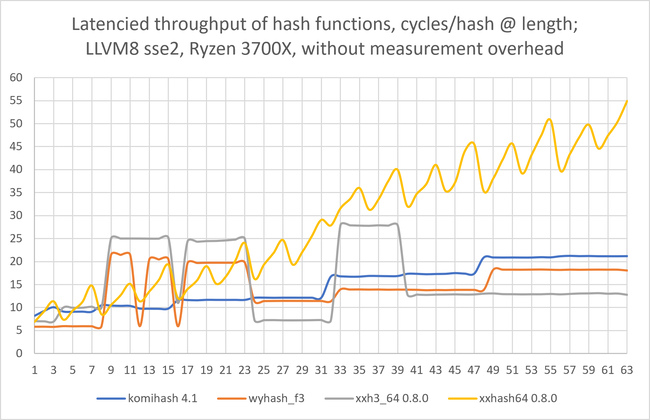
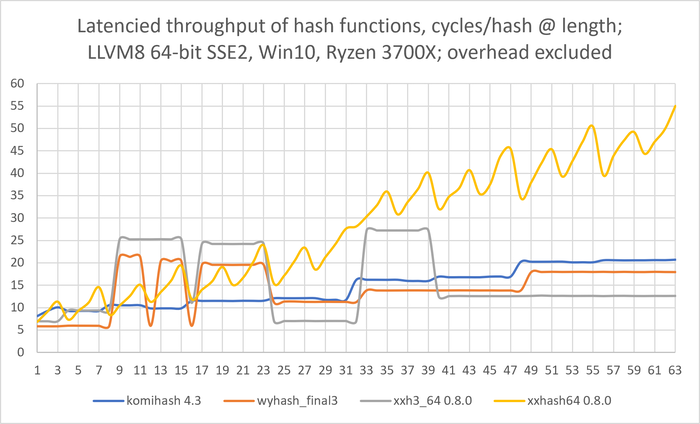
Version 4.3. Reduced "large block" finalization code, with varying results with different compilers. Additional micro-optimization, for more even results between platforms and compilers. Likely a final optimization.

diff --git a/komihash.h b/komihash.h
@@ -1,5 +1,5 @@
 /**
- * komihash.h version 4.2
+ * komihash.h version 4.3
  *
  * The inclusion file for the "komihash" hash function.
  *
@@ -105,10 +105,9 @@
 
 #endif // KOMIHASH_LITTLE_ENDIAN
 
-// Likelihood macros that are used for manually-guided micro-optimization
-// (not enabled in LLVM clang due to inefficiency).
+// Likelihood macros that are used for manually-guided micro-optimization.
 
-#if defined( __GNUC__ ) || \
+#if defined( __GNUC__ ) || defined( __clang__ ) || \
 	( defined( __GNUC__ ) && defined( __INTEL_COMPILER ))
 
 	#define KOMIHASH_LIKELY( x )  __builtin_expect( x, 1 )
@@ -137,10 +136,11 @@
 
 /**
  * An auxiliary function that returns an unsigned 32-bit value created out of
- * individual bytes in a buffer. This function is used to convert endianness
- * of supplied 32-bit unsigned values, and to avoid unaligned memory accesses.
+ * a sequence of bytes in memory. This function is used to convert endianness
+ * of in-memory 32-bit unsigned values, and to avoid unaligned memory
+ * accesses.
  *
- * @param p 4-byte buffer. Alignment is unimportant.
+ * @param p Pointer to 4 bytes in memory. Alignment is unimportant.
  */
 
 static inline uint32_t kh_lu32ec( const uint8_t* const p )
@@ -153,10 +153,11 @@ static inline uint32_t kh_lu32ec( const uint8_t* const p )
 
 /**
  * An auxiliary function that returns an unsigned 64-bit value created out of
- * individual bytes in a buffer. This function is used to convert endianness
- * of supplied 64-bit unsigned values, and to avoid unaligned memory accesses.
+ * a sequence of bytes in memory. This function is used to convert endianness
+ * of in-memory 64-bit unsigned values, and to avoid unaligned memory
+ * accesses.
  *
- * @param p 8-byte buffer. Alignment is unimportant.
+ * @param p Pointer to 8 bytes in memory. Alignment is unimportant.
  */
 
 static inline uint64_t kh_lu64ec( const uint8_t* const p )
@@ -168,9 +169,10 @@ static inline uint64_t kh_lu64ec( const uint8_t* const p )
 }
 
 /**
- * Function loads 64-bit message word and pads it with the "final byte". This
- * function should only be called if there is less than 8 bytes left to read.
- * The message should be "long", permitting Msg[ -3 ] reads.
+ * Function builds an unsigned 64-bit value out of remaining bytes in a
+ * message, and pads it with the "final byte". This function can only be
+ * called if less than 8 bytes are left to read. The message should be "long",
+ * permitting Msg[ -3 ] reads.
  *
  * @param Msg Message pointer, alignment is unimportant.
  * @param MsgLen Message's remaining length, in bytes; can be 0.
@@ -198,9 +200,10 @@ static inline uint64_t kh_lpu64ec_l3( const uint8_t* const Msg,
 }
 
 /**
- * Function loads 64-bit message word and pads it with the "final byte". This
- * function should only be called if there is less than 8 bytes left to read.
- * Can be used on "short" messages, but MsgLen should be greater than 0.
+ * Function builds an unsigned 64-bit value out of remaining bytes in a
+ * message, and pads it with the "final byte". This function can only be
+ * called if less than 8 bytes are left to read. Can be used on "short"
+ * messages, but MsgLen should be greater than 0.
  *
  * @param Msg Message pointer, alignment is unimportant.
  * @param MsgLen Message's remaining length, in bytes; cannot be 0.
@@ -236,9 +239,10 @@ static inline uint64_t kh_lpu64ec_nz( const uint8_t* const Msg,
 }
 
 /**
- * Function loads 64-bit message word and pads it with the "final byte". This
- * function should only be called if there is less than 8 bytes left to read.
- * The message should be "long", permitting Msg[ -4 ] reads.
+ * Function builds an unsigned 64-bit value out of remaining bytes in a
+ * message, and pads it with the "final byte". This function can only be
+ * called if less than 8 bytes are left to read. The message should be "long",
+ * permitting Msg[ -4 ] reads.
  *
  * @param Msg Message pointer, alignment is unimportant.
  * @param MsgLen Message's remaining length, in bytes; can be 0.
@@ -324,8 +328,8 @@ static inline uint64_t kh_lpu64ec_l4( const uint8_t* const Msg,
 
 #endif // defined( _MSC_VER )
 
-// Common 16-byte hashing block, using the "r1l" and "r1h" temporary
-// variables.
+// Common hashing round with 16-byte input, using the "r1l" and "r1h"
+// temporary variables.
 
 #define KOMIHASH_HASH16( m ) \
 	kh_m128( Seed1 ^ kh_lu64ec( m ), \
@@ -341,8 +345,8 @@ static inline uint64_t kh_lpu64ec_l4( const uint8_t* const Msg,
 	Seed5 += r2h; \
 	Seed1 = Seed5 ^ r2l;
 
-// Common hashing finalization block, with the final hashing input in the
-// "r2l" and "r2h" temporary variables.
+// Common hashing finalization round, with the final hashing input expected in
+// the "r2l" and "r2h" temporary variables.
 
 #define KOMIHASH_HASHFIN() \
 	kh_m128( r2l, r2h, &r1l, &r1h ); \
@@ -351,10 +355,10 @@ static inline uint64_t kh_lpu64ec_l4( const uint8_t* const Msg,
 	KOMIHASH_HASHROUND();
 
 /**
- * KOMIHASH hash function. Produces and returns a 64-bit hash of the specified
- * message, string, or binary data block. Designed for 64-bit hash-table and
- * hash-map uses. Produces identical hashes on both big- and little-endian
- * systems.
+ * KOMIHASH hash function. Produces and returns a 64-bit hash value of the
+ * specified message, string, or binary data block. Designed for 64-bit
+ * hash-table and hash-map uses. Produces identical hashes on both big- and
+ * little-endian systems.
  *
  * @param Msg0 The message to produce a hash from. The alignment of this
  * pointer is unimportant.
@@ -377,13 +381,14 @@ static inline uint64_t komihash( const void* const Msg0, size_t MsgLen,
 	uint64_t Seed5 = 0x452821E638D01377 ^ ( UseSeed & 0xAAAAAAAAAAAAAAAA );
 	uint64_t r1l, r1h, r2l, r2h;
 
-	// The following three instructions represent the simplest constant-less
-	// PRNG, scalable to any even-sized state variables, with the `Seed1`
-	// being the PRNG output (2^64 period). It passes `PractRand` tests with
-	// rare non-systematic "unusual" evaluations.
+	// The three instructions in the "KOMIHASH_HASHROUND" macro represent the
+	// simplest constant-less PRNG, scalable to any even-sized state
+	// variables, with the `Seed1` being the PRNG output (2^64 PRNG period).
+	// It passes `PractRand` tests with rare non-systematic "unusual"
+	// evaluations.
 	//
-	// To make it reliable, self-starting, and eliminate a risk of stopping,
-	// the following variant can be used, which is a "register
+	// To make this PRNG reliable, self-starting, and eliminate a risk of
+	// stopping, the following variant can be used, which is a "register
 	// checker-board", a source of raw entropy. The PRNG is available as the
 	// komirand() function. Not required for hashing (but works for it) since
 	// the input entropy is usually available in abundance during hashing.
@@ -396,18 +401,19 @@ static inline uint64_t komihash( const void* const Msg0, size_t MsgLen,
 
 	KOMIHASH_HASHROUND(); // Required for PerlinNoise.
 
-	KOMIHASH_PREFETCH( Msg );
-
 	if( KOMIHASH_LIKELY( MsgLen < 16 ))
 	{
+		KOMIHASH_PREFETCH( Msg );
+
 		r2l = Seed1;
 		r2h = Seed5;
 
-		if( KOMIHASH_LIKELY( MsgLen > 7 ))
+		if( MsgLen > 7 )
 		{
 			// The following two XOR instructions are equivalent to mixing a
-			// message with a cryptographical one-time-pad. Message's
-			// statistics and distribution are thus unimportant.
+			// message with a cryptographic one-time-pad (bitwise modulo 2
+			// addition). Message's statistics and distribution are thus
+			// unimportant.
 
 			r2h ^= kh_lpu64ec_l3( Msg + 8, MsgLen - 8,
 				1 << ( Msg[ MsgLen - 1 ] >> 7 ));
@@ -428,6 +434,8 @@ static inline uint64_t komihash( const void* const Msg0, size_t MsgLen,
 
 	if( KOMIHASH_LIKELY( MsgLen < 32 ))
 	{
+		KOMIHASH_PREFETCH( Msg );
+
 		KOMIHASH_HASH16( Msg );
 
 		const uint64_t fb = 1 << ( Msg[ MsgLen - 1 ] >> 7 );
@@ -448,10 +456,9 @@ static inline uint64_t komihash( const void* const Msg0, size_t MsgLen,
 		return( Seed1 );
 	}
 
-	uint64_t Seed2 = 0x13198A2E03707344 ^ Seed1;
-
-	if( KOMIHASH_UNLIKELY( MsgLen > 63 ))
+	if( MsgLen > 63 )
 	{
+		uint64_t Seed2 = 0x13198A2E03707344 ^ Seed1;
 		uint64_t Seed3 = 0xA4093822299F31D0 ^ Seed1;
 		uint64_t Seed4 = 0x082EFA98EC4E6C89 ^ Seed1;
 		uint64_t Seed6 = 0xBE5466CF34E90C6C ^ Seed5;
@@ -496,27 +503,11 @@ static inline uint64_t komihash( const void* const Msg0, size_t MsgLen,
 
 		} while( KOMIHASH_LIKELY( MsgLen > 63 ));
 
-		// Such "cropped" large-block hashing finalization (below) may look
-		// counter-intuitive (it does not look similar to the set of
-		// instructions above), but it was tested in PractRand, and it does
-		// produce a correct continuation of PRNG in Seed1/Seed5. Such
-		// finalization is even preferrable since it yields a considerably
-		// lower biases in the "Zeroes" and "Avalanche" tests of SMHasher.
-
-		kh_m128( Seed2, Seed6, &r2l, &r2h );
-		kh_m128( Seed3, Seed7, &r3l, &r3h );
-		kh_m128( Seed4, Seed8, &r4l, &r4h );
-
-		Seed6 += r2h;
-		Seed7 += r3h;
-		Seed8 += r4h;
-		Seed2 = Seed5 ^ r2l;
-		Seed3 = Seed6 ^ r3l;
-		Seed4 = Seed7 ^ r4l;
-		Seed5 = Seed8;
-
-		Seed2 ^= Seed3 ^ Seed4;
+		Seed5 ^= Seed6 ^ Seed7 ^ Seed8;
+		Seed1 ^= Seed2 ^ Seed3 ^ Seed4;
 	}
+
+	KOMIHASH_PREFETCH( Msg );
 
 	if( KOMIHASH_LIKELY( MsgLen > 31 ))
 	{
@@ -550,7 +541,7 @@ static inline uint64_t komihash( const void* const Msg0, size_t MsgLen,
 
 	KOMIHASH_HASHFIN();
 
-	return( Seed1 ^ Seed2 );
+	return( Seed1 );
 }
 
 /**

diff --git a/README.md b/README.md
@@ -7,7 +7,7 @@ fast 64-bit hash function, mainly designed for hash-table and hash-map uses;
 produces identical hashes on both big- and little-endian systems. Function's
 code is portable, scalar.
 
-This function features both a high large-block hashing performance (27 GB/s
+This function features both a high large-block hashing performance (26 GB/s
 on Ryzen 3700X) and a high hashing throughput for small messages (about 11
 cycles/hash for 0-15-byte messages). Performance on 32-bit systems is,
 however, quite low. Also, large-block hashing performance on big-endian
@@ -45,7 +45,7 @@ Compiler options: `/Ox /arch:sse2`; overhead: `1.8` cycles/h.
 
 |Hash function   |0-15b, cycles/h|8-28b, cycles/h|bulk, GB/s     |
 |----            |----           |----           |----           |
-|**komihash 4.1**|11.4           |12.9           |26.8           |
+|**komihash 4.3**|11.2           |13.0           |26.0           |
 |komihash 3.6    |11.1           |16.9           |27.5           |
 |komihash 2.8    |11.3           |17.4           |27.7           |
 |wyhash_final3   |13.4           |17.8           |29.7           |
@@ -57,7 +57,7 @@ Compiler options: `/Ox -mavx2`; overhead: `1.8` cycles/h.
 
 |Hash function   |0-15b, cycles/h|8-28b, cycles/h|bulk, GB/s     |
 |----            |----           |----           |----           |
-|**komihash 4.1**|11.3           |13.1           |26.7           |
+|**komihash 4.3**|11.2           |13.0           |25.9           |
 |komihash 3.6    |11.0           |16.3           |27.5           |
 |komihash 2.8    |11.1           |17.7           |27.8           |
 |wyhash_final3   |13.4           |17.7           |29.8           |
@@ -71,7 +71,7 @@ Compiler options: `-O3 -mavx2`; overhead: `5.3` cycles/h.
 
 |Hash function   |0-15b, cycles/h|8-28b, cycles/h|bulk, GB/s     |
 |----            |----           |----           |----           |
-|**komihash 4.1**|15.4           |16.4           |22.7           |
+|**komihash 4.3**|15.3           |16.3           |22.8           |
 |komihash 3.6    |16.0           |19.0           |22.3           |
 |komihash 2.8    |18.1           |22.3           |23.5           |
 |wyhash_final3   |14.0           |18.7           |28.4           |
@@ -85,7 +85,7 @@ Compiler options: `/O3 /QxSSE2`; overhead: `2.0` cycles/h.
 
 |Hash function   |0-15b, cycles/h|8-28b, cycles/h|bulk, GB/s     |
 |----            |----           |----           |----           |
-|**komihash 4.1**|20.2           |23.4           |16.3           |
+|**komihash 4.3**|17.9           |21.6           |16.3           |
 |komihash 3.6    |20.1           |24.0           |16.3           |
 |komihash 2.8    |21.3           |25.6           |16.2           |
 |wyhash_final3   |24.1           |32.0           |12.6           |
@@ -95,7 +95,7 @@ Compiler options: `/O3 /QxSSE2`; overhead: `2.0` cycles/h.
 
 (this is likely a worst-case scenario, when a compiler was not cross-tuned
 to a competing processor architecture; also, ICC for Windows does not support
-the `__builtin_expect()` intrinsic)
+the `__builtin_expect` and `__builtin_prefetch` intrinsics)
 
 ### GCC 8.5.0 64-bit, CentOS 8, Xeon E-2176G (CoffeeLake), 4.5 GHz ###
 
@@ -103,7 +103,7 @@ Compiler options: `-O3 -msse2`; overhead: `5.8` cycles/h.
 
 |Hash function   |0-15b, cycles/h|8-28b, cycles/h|bulk, GB/s     |
 |----            |----           |----           |----           |
-|**komihash 4.1**|18.0           |17.1           |24.3           |
+|**komihash 4.3**|15.4           |16.2           |24.4           |
 |komihash 3.6    |16.4           |20.3           |24.7           |
 |komihash 2.8    |18.5           |22.4           |24.7           |
 |wyhash_final3   |14.9           |19.5           |29.8           |
@@ -115,7 +115,7 @@ Compiler options: `-O3 -mavx2`; overhead: `5.8` cycles/h.
 
 |Hash function   |0-15b, cycles/h|8-28b, cycles/h|bulk, GB/s     |
 |----            |----           |----           |----           |
-|**komihash 4.1**|15.3           |16.1           |24.8           |
+|**komihash 4.3**|15.3           |16.4           |24.4           |
 |komihash 3.6    |15.8           |20.1           |24.7           |
 |komihash 2.8    |16.6           |21.2           |24.7           |
 |wyhash_final3   |15.4           |19.0           |30.1           |
@@ -129,7 +129,7 @@ Compiler options: `/O3 /QxSSE2`; overhead: `5.9` cycles/h.
 
 |Hash function   |0-15b, cycles/h|8-28b, cycles/h|bulk, GB/s     |
 |----            |----           |----           |----           |
-|**komihash 4.1**|19.9           |22.0           |18.2           |
+|**komihash 4.3**|18.7           |21.5           |18.5           |
 |komihash 3.6    |19.5           |23.1           |18.1           |
 |komihash 2.8    |20.1           |23.6           |18.4           |
 |wyhash_final3   |19.2           |24.5           |20.0           |
@@ -143,7 +143,7 @@ Compiler options: `/Ox -mavx2`; overhead: `5.5` cycles/h.
 
 |Hash function   |0-15b, cycles/h|8-28b, cycles/h|bulk, GB/s     |
 |----            |----           |----           |----           |
-|**komihash 4.1**|14.5           |16.6           |22.4           |
+|**komihash 4.3**|14.1           |16.0           |22.0           |
 |komihash 3.6    |14.0           |22.0           |22.9           |
 |komihash 2.8    |13.4           |22.7           |23.7           |
 |wyhash_final3   |14.5           |20.1           |30.0           |
@@ -157,7 +157,7 @@ Compiler options: `-O3`; overhead: `unestimatable`.
 
 |Hash function   |0-15b, cycles/h|8-28b, cycles/h|bulk, GB/s     |
 |----            |----           |----           |----           |
-|**komihash 4.1**|8.6            |9.0            |23.6           |
+|**komihash 4.3**|8.6            |9.0            |23.6           |
 |komihash 3.6    |8.5            |10.7           |23.6           |
 |komihash 2.8    |10.1           |11.4           |23.5           |
 |wyhash_final3   |7.9            |8.0            |26.1           |
@@ -175,7 +175,7 @@ overhead. Measurement error is approximately 3%.
 
 |Hash function   |0-15b, cycles/h|8-28b, cycles/h|
 |----            |----           |----           |
-|**komihash 4.1**|**11.2**       |**12.5**       |
+|**komihash 4.3**|**10.4**       |**12.1**       |
 |komihash 3.6    |10.9           |15.4           |
 |komihash 2.8    |11.8           |16.7           |
 |wyhash_final3   |11.4           |15.9           |
